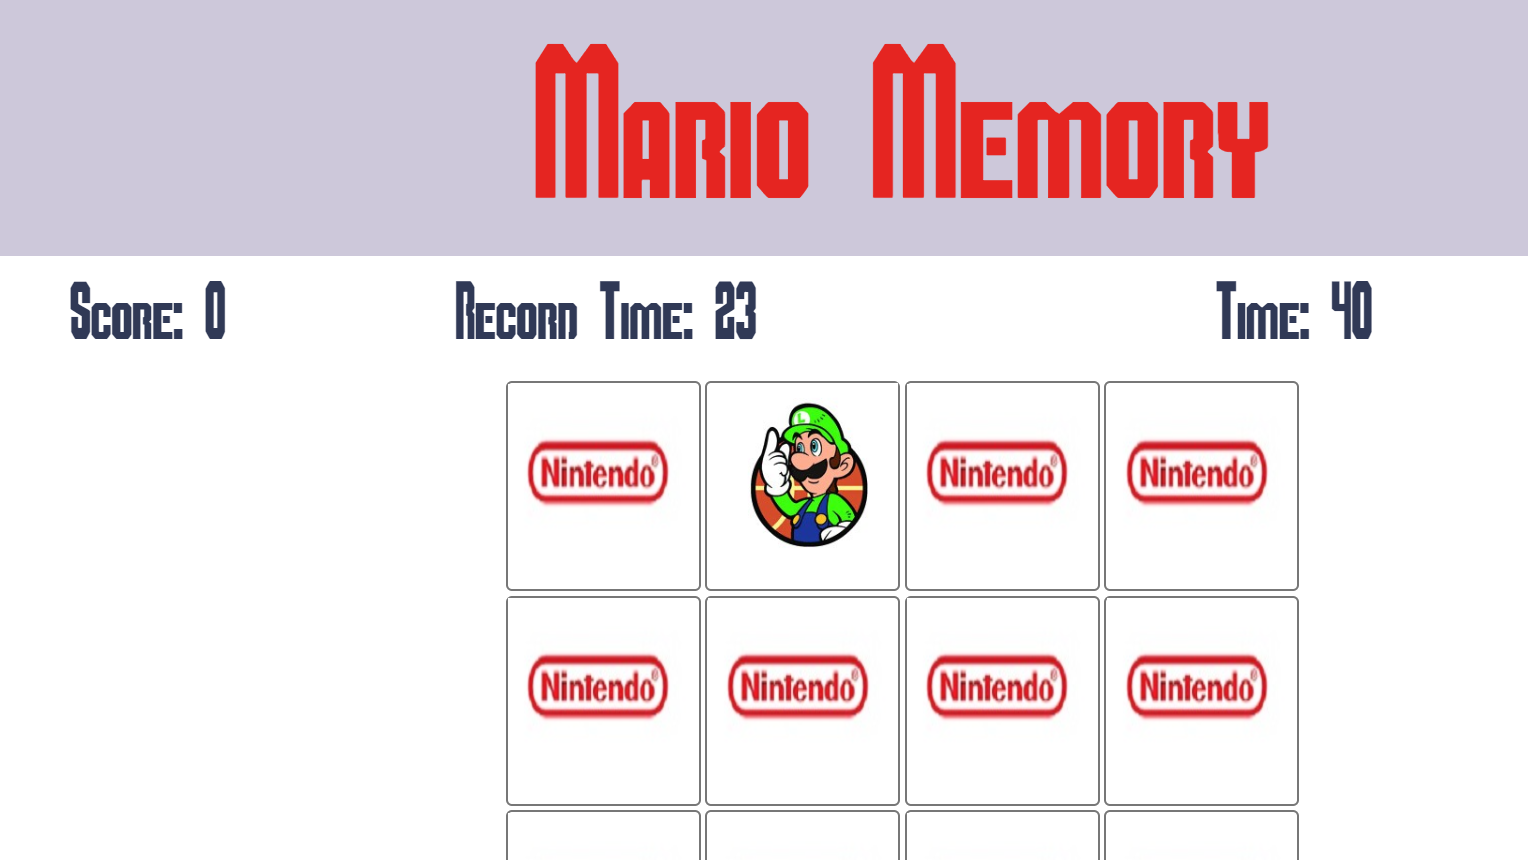
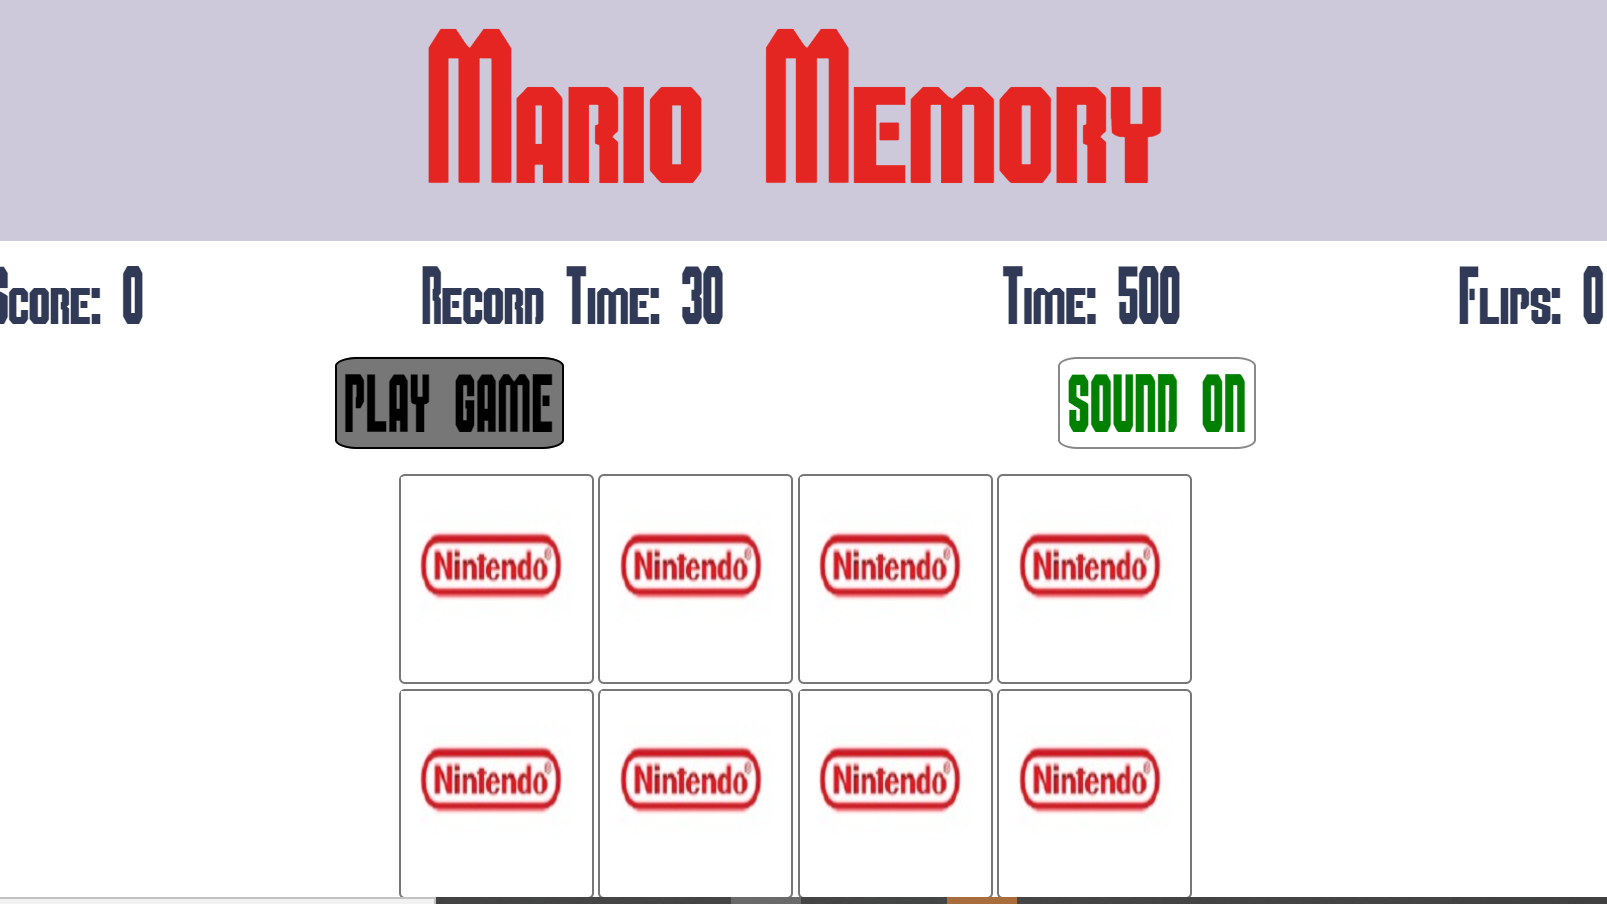
Including game button documentation in README

Changed region(s): [[0.0, 0.0302, 1.0, 1.0]]

diff --git a/README.md b/README.md
@@ -13,6 +13,7 @@ If you would like to visit the site and try out the game for yourself, feel free
 - As a user, I want to be able to access the game on all platforms.
 - As a user I want to be able to contribute to the local leader-board as to challenge me and get myself more focused on improving.
 - As a user I want to hear the game sounds that accompany each click of a card , match of a pair or incorrect match of a pair as I play the game.
+- As a user I want to actively choose when to listen to game music and when not to using a sound toggle button.
 - As an owner I want to facilitate the overall needs of the user.
 - As an owner I want to provide a local storage system as to entice the user to come back and to try and bea their current high score.
 - As an owner I want to present the website in a very clear manner with un-ambigious colours as to not be presenting the potential user with colour overload or a website that just doesn't make sense design-wise.
@@ -28,11 +29,13 @@ Each option is sectioned off in block div elements and has a hover effect added 
 The colours I have decided to utilise for the game include a bright red '#E52521' hex colour, akin to the iconic outfit sported by Mario, '#303956' for the main body writing and '#CDC8DA' for the background color of the main menu and the title behind the heading for the game page. The reason behind the red colour of the title is both self-explanatory and purposeful. The main reason behind it was actually to emphasise it over the backdrop (background-color of #CDC8DA). I felt that it not only served the atmosphere of the game but it also added value in standing out over the light blue sky as seen in the background image. ![Red title](screenshots/titlecolor.png)
 
 ### Game Page
-The font colour and background colour were chosen in tandem with eachother. After much experimentation in choosing the two colours I decided upon the two as seen as I felt they worked brilliantly to project the game options and the the game heading for the start game page. ![Game info](screenshots/gameInfo.png)
+The font colour and background colour were chosen in tandem with eachother. After much experimentation in choosing the two colours I decided upon the two as seen as I felt they worked brilliantly to project the game options and the the game heading for the start game page. I also thought of the styling behind the play button and the sound on/off button. I chose to adopt a greyish '#777777' background with a black color for the 'play game' button. As for the sound on and off I wanted to keep things as simple as possible with green for "SOUND ON", and red for "SOUND OFF". ![Game info](screenshots/gameInfo.png)
 
 The colors of choosing for the overlays also involved a great deal of deliberation. I wanted to dim the background as much as possible as to communicate to the user that the game had come to a halt (either through victory or loss). For the game over overlay I decided to go with a dark barely translucent background nearly completely black with a slightly bluish font color (#627E9A). As for the victory overlay I decided to adopt more or less the same styles as for the game over lay with the inclusion of a white font for the writing, to differentiate from the font color shown when a loss has occured.
 ![Victory](screenshots/victory.png)
 ![gameOver](screenshots/gameOver.png)
+
+
 
 
 
